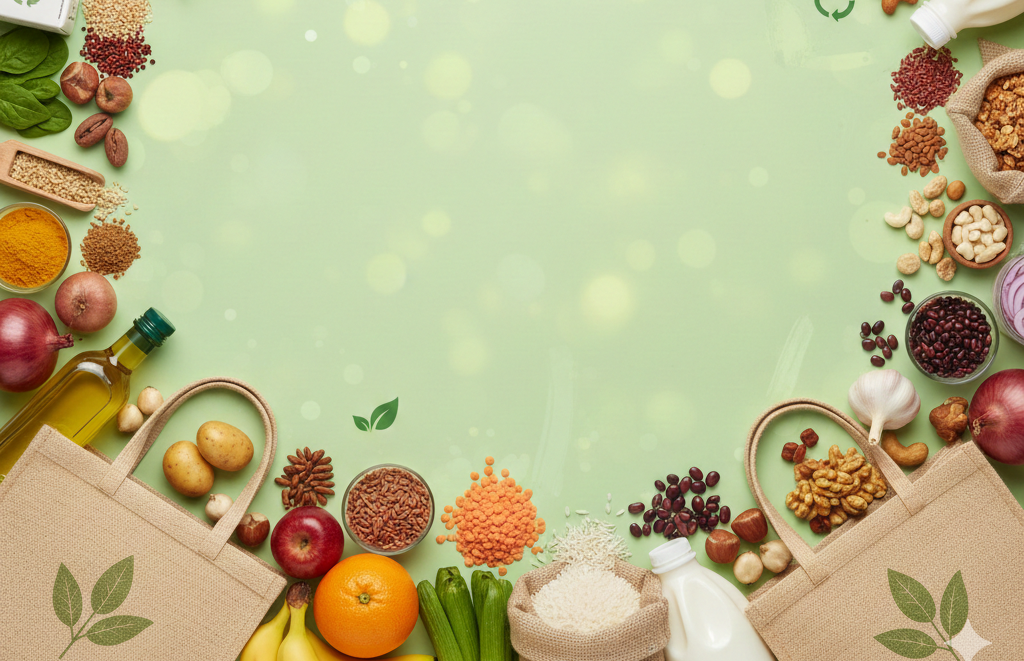
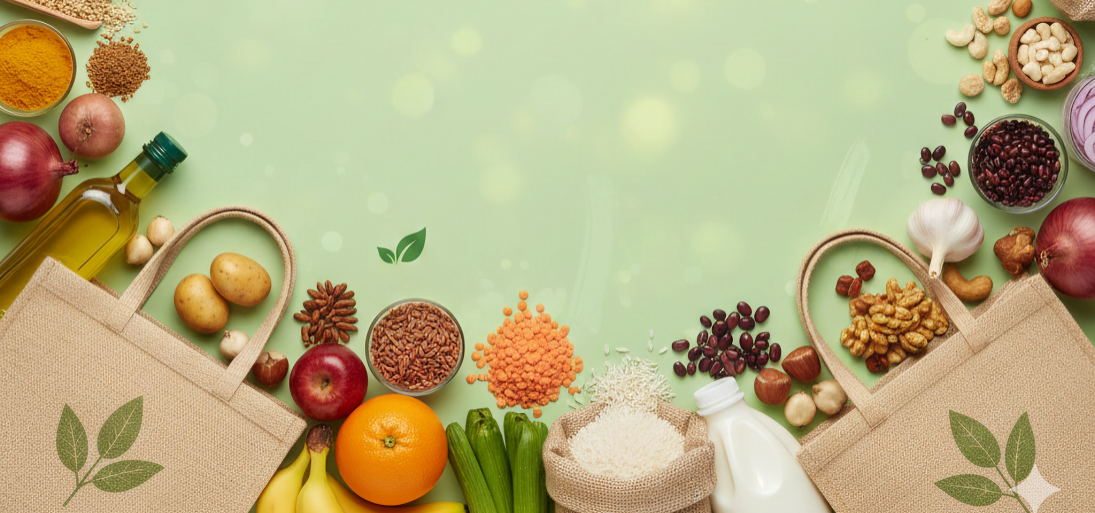
wallpaper

diff --git a/templates/index.html b/templates/index.html
@@ -7,7 +7,7 @@
     <link href="https://cdn.jsdelivr.net/npm/bootstrap@5.3.3/dist/css/bootstrap.min.css" rel="stylesheet">
 
 </head>
-<body style="background: url('/static/images/bg.png') no-repeat center center/cover; height:65vh;">
+<body style="background: url('/static/images/bg.png') no-repeat center center/cover; height:85vh;">
     <div class="container mt-5 text-center">
         <h1 class="text-success fw-bold">Welcome to GreenCart 🥬</h1>
         <p class="lead">Buy & Sell leftover groceries near your area.</p>
